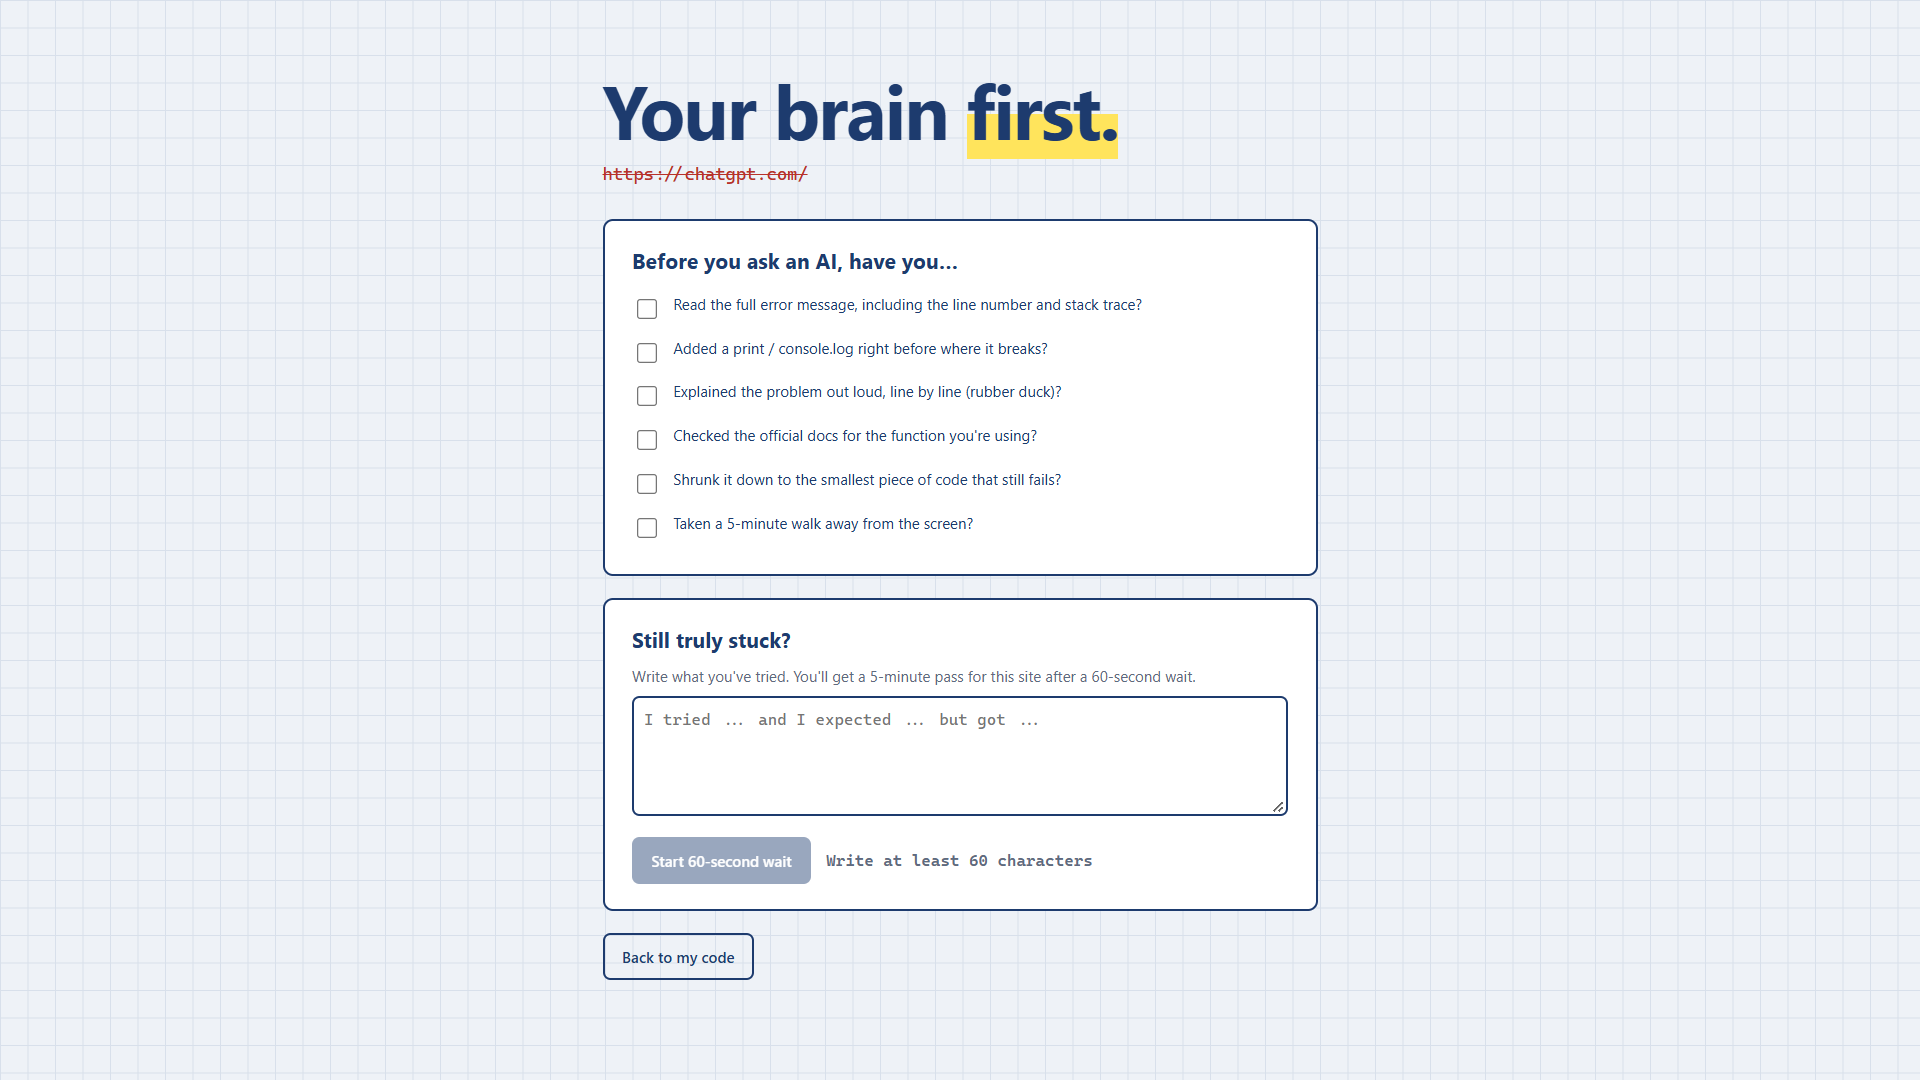
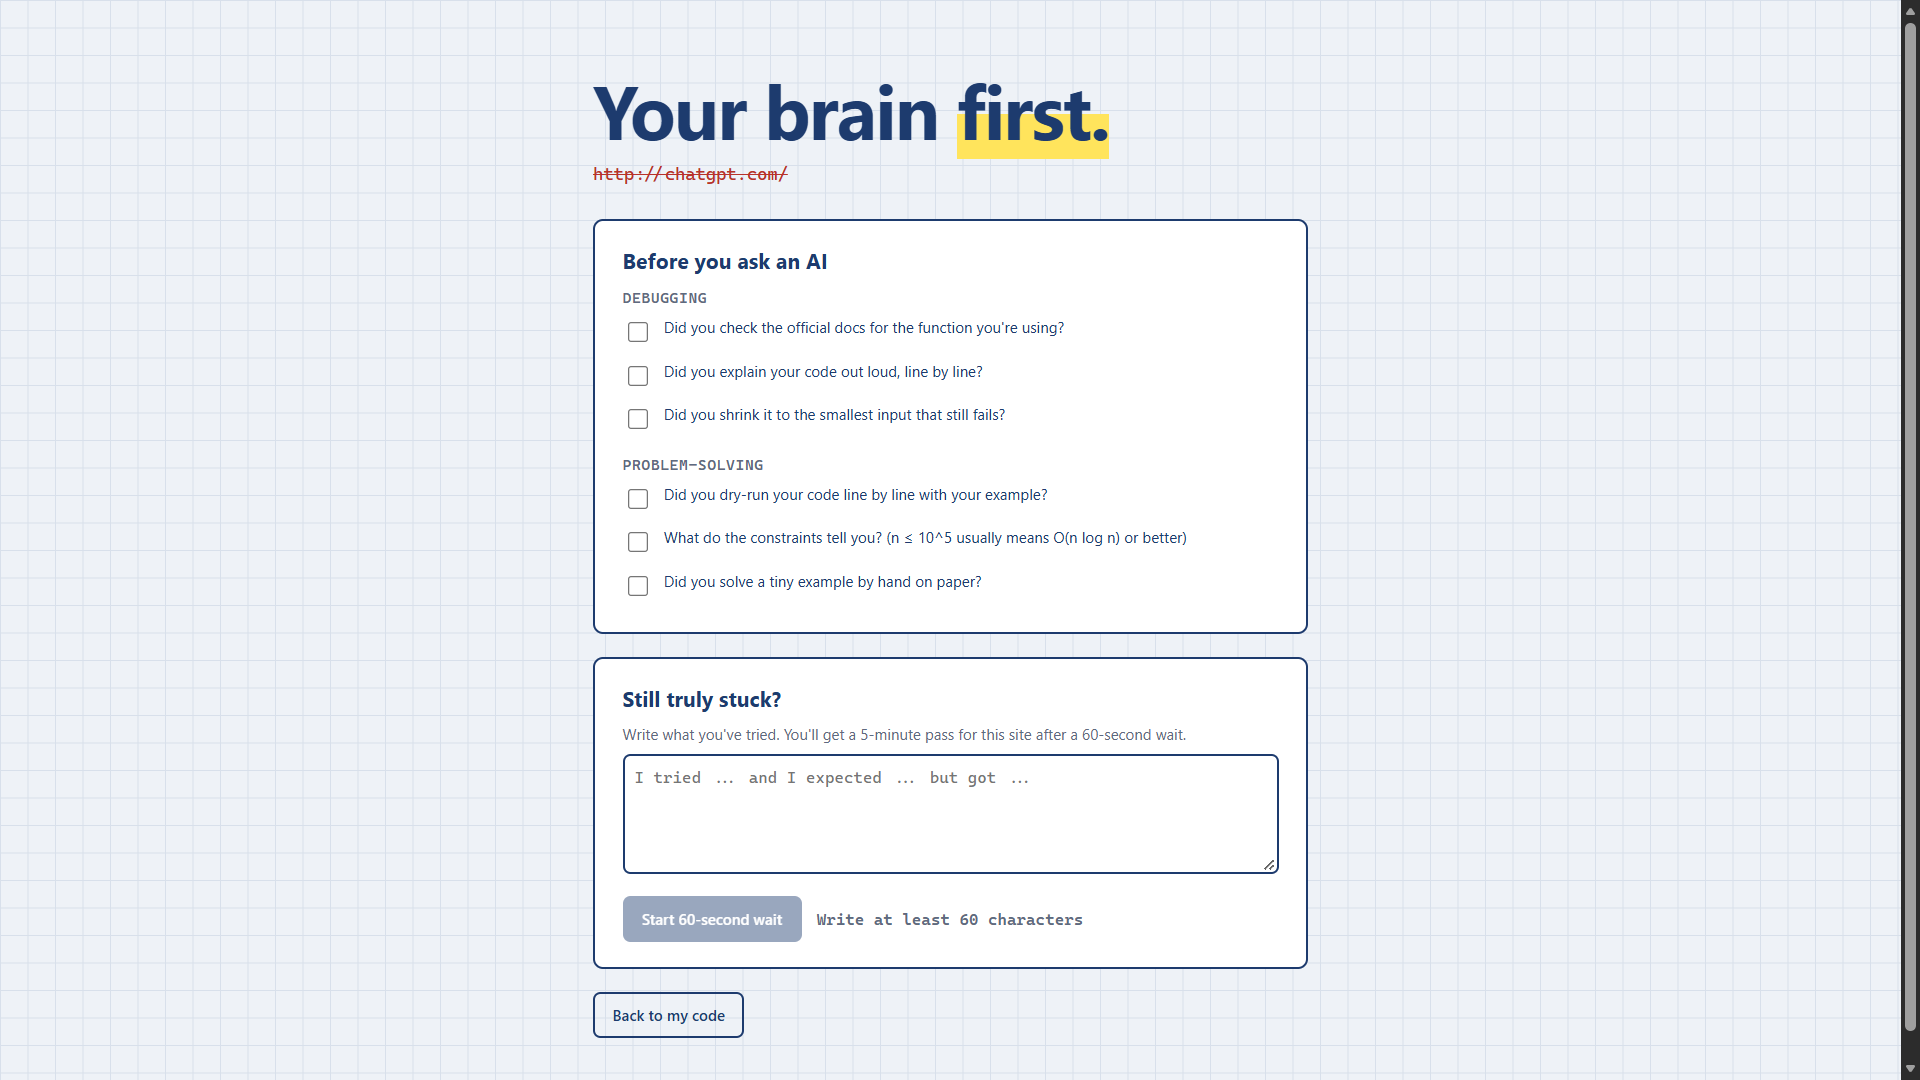
Prepare the Microsoft Edge Add-ons submission
No extension code changes.

- PRIVACY.md: Focus Guard collects nothing, sends nothing, and keeps
  everything in chrome.storage.local; lists what's stored and why.
  Written for Microsoft Edge, as developer policy 1.5.2 asks. Linked
  from the README
- docs/store-listing.md: paste-ready Partner Center fields (properties,
  single purpose, a justification for every permission including
  <all_urls>, remote code, data usage, privacy policy URL, description
  ending with the Flaticon credit, search terms, certification notes),
  with the requirements cited from Microsoft's Publish a Microsoft Edge
  extension page and developer policies. Flags decisions before
  submitting: drop "beta" from the store build, consider removing the
  likely-redundant tabs permission, and the read-only short description
- docs/store/: extension logo at 300x300 (and 128x128), and three
  1280x800 screenshots built from real captures, per Partner Center's
  current sizes
- docs/screenshots/blocked.png: retaken with the rotating questions

Changed region(s): [[0.3125, 0.2139, 0.6875, 0.9472], [0.9688, 0.0, 1.0, 1.0], [0.3125, 0.0611, 0.5938, 0.1833]]

diff --git a/docs/store-listing.md b/docs/store-listing.md
@@ -1,0 +1,189 @@
+# Microsoft Edge Add-ons store listing
+
+Drafts for submitting Focus Guard through [Microsoft Partner Center](https://partner.microsoft.com/dashboard/microsoftedge/public/login?ref=dd). Each section matches a Partner Center page and is ready to paste. Requirements are from Microsoft's [Publish a Microsoft Edge extension](https://learn.microsoft.com/en-us/microsoft-edge/extensions/publish/publish-extension) (updated 2 September 2026) and [Developer policies for the Microsoft Edge Add-ons website](https://learn.microsoft.com/en-us/legal/microsoft-edge/extensions/developer-policies) (updated 24 July 2026). Checked on 2 October 2026.
+
+The listing deliberately doesn't mention other browsers: policy 1.1.2 says an extension "must not reference other browsers".
+
+## Before you submit
+
+These need a decision from you. None of them were changed here, because this task didn't touch extension code.
+
+1. **Drop "beta" from the store build.** The manifest's `version_name` is `1.0.0-beta.1`. Microsoft's policies don't allow "non-production builds", like an extension "still in an experimental stage". For the store package, consider removing `version_name` so the listing shows plain `1.0.0`, and don't describe it as a beta.
+2. **Consider removing the `tabs` permission.** Chrome's tabs documentation says host permissions already allow reading a tab's `url` and `pendingUrl`, which is all Focus Guard uses `tabs` for, and Focus Guard has `<all_urls>`. Policy 1.6 says to "only request those permissions that are necessary". Removing it needs a test run first (TESTING.md sections 2, 3 and 4). If you keep it, the justification below is accurate.
+3. **Add an Edge screenshot of the setup checklist** if you want one. `docs/screenshots/welcome.png` shows the Chrome setup steps, so it isn't used for this listing.
+4. **The short description comes from `manifest.json`**, and Partner Center won't let you edit it there (see below).
+
+## Package
+
+Upload `dist/focus-guard-1.0.0-beta.1.zip`, built with:
+
+```bash
+git -c core.autocrlf=false archive --format=zip -9 -o dist/focus-guard-<version>.zip HEAD manifest.json src icons
+```
+
+It contains `manifest.json` at the root plus `src/` and `icons/`, nothing else. If you change the manifest (items 1 and 2 above), rebuild it.
+
+## Availability
+
+- **Visibility:** Public
+- **Markets:** All markets
+
+## Properties
+
+| Field | Value |
+| --- | --- |
+| Category | Productivity |
+| Website | https://github.com/rishi555123/focus-guard |
+| Support contact detail | https://github.com/rishi555123/focus-guard/issues |
+| Mature content | No (leave unticked) |
+
+## Privacy
+
+### Single purpose description
+
+> Focus Guard blocks AI chat websites during timed coding sessions and asks the user to try a few debugging and problem-solving questions first, so they practise solving problems themselves. A user who is still stuck can unlock one site for 5 minutes after writing what they tried and waiting 60 seconds.
+
+### Permission justification
+
+| Permission | Justification |
+| --- | --- |
+| `declarativeNetRequest` | During a coding session, Focus Guard uses redirect rules to send the user from AI chat sites on their blocklist to the extension's own block page. When the user earns a 5-minute pass, it adds a higher-priority allow rule for that one site, and removes it when the pass ends. All rules are built locally from the user's blocklist. None are downloaded. |
+| `<all_urls>` (host permission) | A `declarativeNetRequest` redirect only works on sites the extension has host permission for, and users can add any website to their blocklist, so the sites aren't known in advance. The host permission also lets Focus Guard check the address of tabs that are already open, so AI tabs open when a session starts are sent to the block page too. Focus Guard has no content scripts, never reads page content, and makes no network requests. |
+| `tabs` | Reads the address (`url` and `pendingUrl`) of open tabs, to find AI chat tabs that were already open or still loading when a session starts or a pass ends, and to catch navigations the redirect rules don't see, like Back and Forward. Addresses are only compared with the blocklist, never stored or sent. |
+| `alarms` | Ends the coding session on time, ends 5-minute passes, shows a warning one minute before a pass ends, and updates the minutes left on the toolbar badge. Alarms keep working while the background service worker is asleep. |
+| `storage` | Saves the user's blocklist, the current session and pass, simple stats, the user's last 20 unlock notes and a few settings in `chrome.storage.local` on their device. Nothing is synced or sent anywhere. |
+| `notifications` | Tells the user one minute before a pass ends, when it ends, and when it moves to another site. Notifications contain only the site's name and follow the user's notification settings. |
+
+### Are you using remote code?
+
+**No, I am not using remote code.** Focus Guard is Manifest V3, and all of its code is in the package.
+
+### Data usage
+
+- **What user data do you plan to collect:** tick nothing. Focus Guard collects no user data. It checks page addresses against the blocklist locally, but never records or transmits them.
+- **Certifications:** tick all three. They're true, since nothing is collected, sold, transferred or used for unrelated purposes.
+
+### Privacy policy URL
+
+https://github.com/rishi555123/focus-guard/blob/main/PRIVACY.md
+
+Microsoft only requires one if the extension collects personal information, which Focus Guard doesn't. It's provided anyway, because the store shows it to users.
+
+## Store listing (English)
+
+### Extension name
+
+From the manifest (read-only in Partner Center): **Focus Guard: Code Without the Crutch**
+
+### Short description
+
+Partner Center takes this from the manifest's `description` field and doesn't let you edit it there. "To edit the short description, you must update the description field in the manifest file … and then re-upload the package." The current value is:
+
+> Blocks AI chat sites during coding sessions so you solve problems yourself first.
+
+To end the short description with the icon credit too, change the manifest's `description` to this (105 characters, within the 132-character manifest limit) and rebuild the package:
+
+> Blocks AI chat sites while you code. Security agent icon by Any Icon from Flaticon, recolored and resized
+
+The full description below already ends with the credit, which covers Flaticon's attribution requirement on the listing page.
+
+### Description
+
+Required: 250 to 10,000 characters. This draft is about 2,100.
+
+```text
+Focus Guard helps you learn to code by making you try first. During a coding session, AI chat sites like ChatGPT, Gemini, Claude, Microsoft Copilot, Perplexity and DeepSeek are replaced by a "Your brain first." page.
+
+HOW IT WORKS
+- Start a 25, 50 or 90 minute coding session from the toolbar. The toolbar badge shows the minutes left.
+- Open an AI chat site and you'll see 6 questions to try first: 3 debugging questions, like "What changed since it last worked?", and 3 problem-solving questions, like "What's the brute-force solution, even if it's slow?". They're picked at random from a larger pool each time.
+- Still stuck? Write what you tried (at least 60 characters), wait 60 seconds, and get a 5-minute pass for that one site. Every other AI site stays blocked.
+- Notifications tell you one minute before a pass ends, when it ends, and when it moves to another site.
+- Outside a session, every site works normally.
+
+FEATURES
+- Blocks 25 AI chat sites and their subdomains by default.
+- Edit the blocklist yourself. It's locked during a session, so you can't quietly remove a site.
+- Simple stats: sessions finished, focused minutes, AI visits blocked and passes used.
+- A short setup checklist on first install, including an optional step to turn off Copilot in Edge.
+
+PRIVACY
+Focus Guard collects no data and sends nothing anywhere. Your blocklist, sessions, stats and unlock notes are saved only on your device. There are no accounts, servers, ads or analytics.
+
+LIMITATIONS
+- Edge's Copilot button and sidebar are part of the browser, so Focus Guard can't block them. The setup checklist shows how to turn them off.
+- In InPrivate windows, blocked sites show the browser's error page instead of Focus Guard's page, so you can't unlock them there. Allow Focus Guard in InPrivate on its extension settings page, and unlock from a normal window.
+- AI features inside other sites, like coding assistants in your editor or AI answers in search results, aren't blocked.
+
+Focus Guard is open source under the MIT license.
+
+Security agent icon by Any Icon from Flaticon, recolored and resized
+```
+
+### Images
+
+All in `docs/store/`, made from real screenshots of the extension:
+
+| Field | File | Size | Microsoft's requirement |
+| --- | --- | --- | --- |
+| Extension logo (required) | `logo-300.png` | 300 × 300 | 1:1, recommended 300 × 300, minimum 128 × 128 |
+| (fallback logo) | `logo-128.png` | 128 × 128 | The original icon, pixel for pixel |
+| Screenshot 1 | `screenshot-1-questions.png` | 1280 × 800 | Up to 6, each 640 × 480 or 1280 × 800 |
+| Screenshot 2 | `screenshot-2-unlock.png` | 1280 × 800 | |
+| Screenshot 3 | `screenshot-3-popup.png` | 1280 × 800 | |
+| Small promotional tile (optional) | Not made | | 440 × 280 |
+| Large promotional tile (optional) | Not made | | 1400 × 560 |
+
+The largest icon in the extension is 128 × 128. `logo-300.png` was rebuilt from its outline in the same navy (`#1D3B6E`) so the edges stay sharp, rather than stretching the pixels. Policy 1.1.2 says screenshots "must not be stretched or blurry", so the screenshots use the original captures at their own resolution or smaller, never enlarged.
+
+### Search terms
+
+Up to 7 terms, 30 characters each, 21 words in total:
+
+1. `focus`
+2. `coding`
+3. `block AI sites`
+4. `study timer`
+5. `leetcode practice`
+6. `learn to code`
+7. `distraction blocker`
+
+That's 7 terms and 14 words.
+
+## Notes for certification
+
+Paste into **Notes for certification** on the **Submit your extension** page:
+
+```text
+No account, login or server is needed. Everything runs locally.
+
+HOW TO TEST
+1. After installing, a "Welcome to Focus Guard" setup page opens. Its steps are optional.
+2. Click the Focus Guard toolbar icon, pick 25 min and click "Start coding session". The badge shows the minutes left.
+3. Open https://chatgpt.com. You're redirected to Focus Guard's "Your brain first." page with 6 questions.
+4. In "Still truly stuck?", type at least 60 characters, click "Start 60-second wait" and wait 60 seconds. You're sent to chatgpt.com with a 5-minute pass. Other AI sites, like https://claude.ai, stay blocked.
+5. Click "End session early" in the popup. All sites open normally again.
+
+TESTING TIMERS WITHOUT WAITING
+At edge://extensions, open Focus Guard's "service worker" console and run:
+- chrome.alarms.create("passWarn", { when: Date.now() + 2000 })  -> "1 minute left" notification (needs an active pass)
+- chrome.alarms.create("passEnd", { when: Date.now() + 2000 })   -> ends the pass
+- chrome.alarms.create("sessionEnd", { when: Date.now() + 2000 }) -> ends the session
+
+THINGS THAT MAY LOOK UNUSUAL
+- Blocking only happens during a session. Outside one, nothing is blocked.
+- In InPrivate windows, blocked sites show the browser's error page, not Focus Guard's page. Extensions can't show their own pages in InPrivate tabs without split incognito mode. This is documented in the listing.
+- Edge's built-in Copilot sidebar isn't blocked. The setup page offers optional steps to turn it off.
+- The code contains chrome:// addresses and Chrome wording. Focus Guard detects the browser with User-Agent Client Hints, as Microsoft recommends, and only uses edge:// addresses and Edge wording in Microsoft Edge.
+- After removal, the browser opens a section of the project's README on GitHub explaining how to turn Copilot back on. No data is sent with it.
+- Redirect rules are built locally from the user's blocklist. None are fetched remotely.
+
+Source code: https://github.com/rishi555123/focus-guard
+Privacy policy: https://github.com/rishi555123/focus-guard/blob/main/PRIVACY.md
+```
+
+## Sources
+
+- [Publish a Microsoft Edge extension](https://learn.microsoft.com/en-us/microsoft-edge/extensions/publish/publish-extension), Microsoft Learn. Package contents, properties, the Privacy page (single purpose, permission justification, remote code, data usage, privacy policy), store listing fields and limits, image sizes, search terms and notes for certification.
+- [Developer policies for the Microsoft Edge Add-ons website](https://learn.microsoft.com/en-us/legal/microsoft-edge/extensions/developer-policies), Microsoft Learn. 1.1.2 (accurate description, limitations, no references to other browsers, screenshots not stretched or blurry), 1.1.4 (search terms), 1.2 and 1.6 (permissions), 1.5 (personal information and privacy policy), 1.9 (notifications), 2.2 (third-party content and credit), and the rule against non-production builds.
+- [chrome.tabs](https://developer.chrome.com/docs/extensions/reference/api/tabs), Chrome for Developers. Host permissions also allow reading a tab's `url` and `pendingUrl`.

diff --git a/PRIVACY.md b/PRIVACY.md
@@ -1,0 +1,58 @@
+# Privacy policy for Focus Guard
+
+**Effective date:** 2 October 2026
+
+Focus Guard is a Microsoft Edge extension that blocks AI chat sites during coding sessions. This policy explains what it does with your information. The short version: **Focus Guard collects no data and sends nothing anywhere.** Everything it needs stays in your own browser.
+
+## What Focus Guard collects
+
+Nothing. Focus Guard has no servers, no accounts, no analytics, no advertising and no tracking. It never sends your information to the developer or to anyone else, and it doesn't sell or share it.
+
+## What Focus Guard stores on your device
+
+To work, Focus Guard saves a small amount of data with `chrome.storage.local`, the browser's built-in storage for extensions. (Microsoft Edge uses the same `chrome.storage` name.) This data stays on your computer, in your browser profile:
+
+| Data | Why |
+| --- | --- |
+| Your blocklist of AI sites | To know which sites to block |
+| The current session's start and end time and length | To run the timer and end the session |
+| The current pass: which site and when it ends | To unlock just that site for 5 minutes |
+| Stats: sessions finished, focused minutes, AI visits blocked, passes used | To show your progress in the popup |
+| Your last 20 unlock notes, each with the site and time | The notes you write before a pass. They're kept only on your device. |
+| A few settings: your last session length, which default sites you've already been offered, and whether you've ticked the setup checklist steps | To remember your choices |
+
+## Browsing activity
+
+To block a site, Focus Guard compares the address of the page you're opening with your blocklist. This happens entirely inside your browser:
+
+- Focus Guard doesn't record, store or send the pages you visit.
+- It doesn't read the content of any web page. It has no content scripts.
+- When it blocks a site, the blocked address appears in the block page's own address so it can send you back after a pass. That's part of your normal browser history, which you control in Edge's settings.
+
+## Notifications
+
+Focus Guard shows notifications about your passes, like "1 minute left on your pass". They're created on your device, contain only the site's name, and follow your Windows and Edge notification settings.
+
+## When you remove Focus Guard
+
+Removing Focus Guard deletes everything it stored. Edge then opens a page in this project's README on GitHub that explains how to turn Copilot back on. That's a normal page visit, like clicking a link. Focus Guard doesn't add anything about you to it. GitHub's own [privacy statement](https://docs.github.com/en/site-policy/privacy-policies/github-general-privacy-statement) applies to that visit.
+
+## Your controls
+
+- **See or change your blocklist** in the Focus Guard popup, whenever no session is running.
+- **Delete everything** by removing Focus Guard at `edge://extensions`.
+- **Turn off notifications** in Windows settings or Edge's site and notification settings. Focus Guard keeps working without them.
+
+## Children
+
+Focus Guard isn't directed at children under 13, and it collects no information from anyone.
+
+## Changes to this policy
+
+If Focus Guard ever changes how it handles information, this file will be updated before that version is released, with a new effective date. You can see every past version in the repository's history.
+
+## Contact
+
+Questions about privacy? [Open an issue](https://github.com/rishi555123/focus-guard/issues) on GitHub.
+
+If you installed Focus Guard from GitHub in another browser, everything in this policy applies there too.

diff --git a/README.md b/README.md
@@ -152,7 +152,7 @@ Focus Guard blocks websites by their address, so some AI tools are out of its re
 
 ## Privacy
 
-Everything stays on your computer.
+Everything stays on your computer. The full privacy policy is in [PRIVACY.md](PRIVACY.md).
 
 - Your sessions, stats, blocklist and the unlock notes you write are saved only in `chrome.storage.local` in your own browser.
 - Focus Guard has no servers, no analytics and no tracking, and it never sends your data anywhere.
